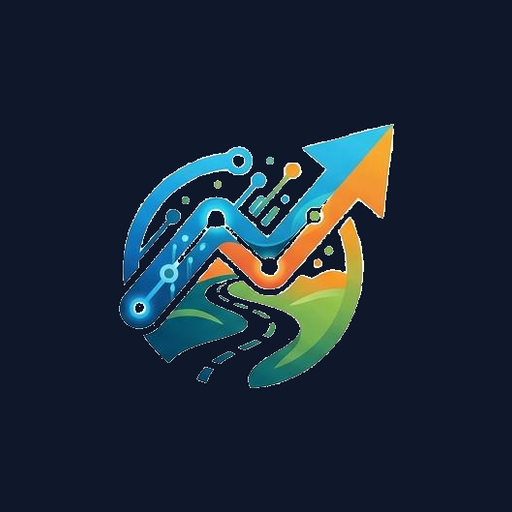
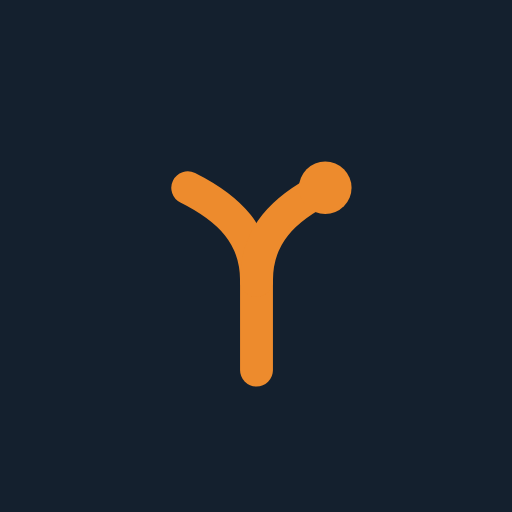
Draw the mark instead of shipping five pictures of it
The old mark was a circuit trace, a gradient arrow and a winding road
stacked on a navy tile. Three motifs, four gradients, no single
silhouette — at 16px in a browser tab it collapsed into a smudge, and
because the artwork carried a baked-in cream plate it could not sit on
anything without help.

That help had accumulated. The mark shipped as five bitmaps: a light pair,
a dark pair and a separate lockup for the report, all of which had to be
kept in step by hand. The stylesheet ran mix-blend-mode: multiply on light
grounds to melt the cream plate into the paper, plus a set of dark-scheme
overrides to stop that same trick sinking the plate into mud on the
footer. Every line of it existed to disguise the fact that the mark was a
rectangle of pixels rather than a shape.

It is a shape now. Njia means "path", and the product exists for one
moment: the fork a learner reaches after KCSE, where both ways look
identical from where they stand. So the mark is that fork with one way
marked — a route rising from where you are, splitting, one branch ending
in a filled point. The other branch stays open and unmarked, because Njia
names a secondary cluster too and never claims the road not taken is
closed.

It is drawn in currentColor, which is the whole point: one definition
takes terracotta on paper, gold on the navy hero, cream on the footer,
and ink on the printed report, with no per-scheme asset and no
compositing tricks. Defined once as a sprite symbol rather than three
[…]

Changed region(s): [[0.2188, 0.2188, 0.7812, 0.7812]]

diff --git a/tests/provenance.test.js b/tests/provenance.test.js
@@ -1491,14 +1491,27 @@ test('the teacher labour market record states both sides of the paradox', () => 
  * requests — and print CSS reveals the block far too late to load it. Every
  * PDF exported shipped with no logo: no indication of where the document came
  * from. */
-test('the report logo is not lazy-loaded out of the PDF', () => {
+test('the report carries a brand mark that cannot fail to load', () => {
+  /* This guard used to require an <img> in the report header that was not
+   * lazy-loaded, because the mark sits in a display:none subtree and a lazy
+   * image there is never fetched — every PDF exported before that fix went
+   * out with no mark at all. The requirement was always "the mark is there
+   * when the sheet prints"; a non-lazy <img> was just one way to get it.
+   * The mark is inline vector now, which cannot fail to load because there
+   * is nothing to fetch, so the guard checks the requirement and still
+   * rejects a return to a lazily-fetched bitmap. */
   const discover = fs.readFileSync(path.join(root, 'js/discover.js'), 'utf8');
-  const header = discover.match(/<div class="report-header">[\s\S]*?<\/div>/);
-  assert.ok(header, 'the report must have a header block');
-  const img = header[0].match(/<img[^>]*>/);
-  assert.ok(img, 'the report header must carry the brand mark');
-  assert.ok(!/loading=["']lazy["']/.test(img[0]),
-    'the report logo must not be lazy-loaded — it sits in a display:none subtree and will never be fetched');
+  const start = discover.indexOf('<div class="report-header">');
+  assert.ok(start > -1, 'the report must have a header block');
+  const header = discover.slice(start, discover.indexOf('report-header-meta', start));
+  const inlineMark = /<use\s+href="#i-njia"/.test(header);
+  const img = header.match(/<img[^>]*>/);
+  assert.ok(inlineMark || img,
+    'the report header carries no brand mark — it is the one element telling a bursary office where the sheet came from');
+  if (img) {
+    assert.ok(!/loading=["']lazy["']/.test(img[0]),
+      'the report logo must not be lazy-loaded — it sits in a display:none subtree and will never be fetched');
+  }
 
   // The print block must stay display:none on screen and visible in print, or
   // the report renders twice on the page.
@@ -1811,4 +1824,39 @@ test('the catalogue notice does not point at a badge that no longer exists', () 
     'the catalogue notice renders an est. badge again, but nothing marks figures est. any more');
   assert.ok(!/^\.est-mark\s*\{/m.test(css),
     'the .est-mark style is back without anything rendering it');
+});
+
+test('the brand mark is the same drawing in both places it is defined', () => {
+  /* The mark lives twice: as icons/logo-mark.svg, which the PWA icon
+   * generator and any external use read, and as the #i-njia sprite symbol,
+   * which every in-app surface renders. Two copies of a drawing drift —
+   * that is exactly how the old mark ended up as four PNGs that had to be
+   * kept in step by hand. Compare the geometry, not the formatting. */
+  const geometry = (src) => {
+    const paths = [...src.matchAll(/<path\s+d="([^"]+)"/g)].map((m) => m[1].replace(/\s+/g, ' ').trim());
+    const circles = [...src.matchAll(/<circle\s+cx="([^"]+)"\s+cy="([^"]+)"\s+r="([^"]+)"/g)]
+      .map((m) => m.slice(1, 4).join(','));
+    return { paths, circles };
+  };
+  const file = fs.readFileSync(path.join(root, 'icons', 'logo-mark.svg'), 'utf8');
+  const html = fs.readFileSync(path.join(root, 'index.html'), 'utf8');
+  const symbol = html.slice(html.indexOf('<symbol id="i-njia"'));
+  const inline = symbol.slice(0, symbol.indexOf('</symbol>'));
+
+  const a = geometry(file), b = geometry(inline);
+  assert.ok(a.paths.length >= 3, 'logo-mark.svg no longer contains the mark');
+  assert.deepEqual(b.paths, a.paths, 'the #i-njia symbol and icons/logo-mark.svg draw different paths');
+  assert.deepEqual(b.circles, a.circles, 'the marked terminal differs between the two definitions');
+});
+
+test('nothing renders the retired logo bitmaps', () => {
+  /* The mark is vector now. The old PNG pair-per-scheme existed only
+   * because a raster mark cannot take the page's ink, and leaving a
+   * reference behind would quietly reintroduce the asset it replaced. */
+  for (const file of ['index.html', 'js/app.js', 'js/discover.js', 'css/styles.css']) {
+    const src = fs.readFileSync(path.join(root, file), 'utf8');
+    const code = src.replace(/\/\*[\s\S]*?\*\//g, '').replace(/<!--[\s\S]*?-->/g, '');
+    assert.ok(!/logo-mark-(light-)?\d+\.png|logo-lockup-report\.png/.test(code),
+      `${file} still references a retired logo bitmap`);
+  }
 });

diff --git a/css/styles.css b/css/styles.css
@@ -381,25 +381,21 @@ svg.icon {
   font-size: 0.95rem;
   color: var(--text-secondary);
 }
+/* The mark is drawn in currentColor, so it needs no per-scheme asset and
+ * no compositing tricks. What stood here was a mix-blend-mode: multiply on
+ * light grounds, to blend the cream plate baked into the old PNG artwork
+ * into the paper, plus a set of dark-scheme overrides to stop that same
+ * trick sinking the plate into mud on the footer. All of it existed to
+ * hide the fact that the mark was a rectangle of pixels rather than a
+ * shape. It is a shape now. */
 .logo-mark {
   width: 28px; height: 28px;
-  object-fit: contain;
   flex-shrink: 0;
   display: block;
+  color: var(--primary);
 }
-/* The mark assets carry a cream (#f5f2ea) plate. multiply blends that
- * plate into any light surface, so the artwork sits directly on the
- * paper with no visible square. Scoped to light contexts only — on the
- * dark footer the same trick would sink the art into black. */
-.app-header .logo-mark { mix-blend-mode: multiply; }
-/* On dark grounds multiply sinks the cream plate into mud — show the
- * plate as a small rounded badge instead. */
-:root[data-theme="dark"] .app-header .logo-mark,
-:root[data-theme="dark"] .landing-hero-logo,
-:root[data-theme="dark"] .logo-mark {
-  mix-blend-mode: normal;
-  border-radius: 6px;
-}
+.app-header .logo-mark { color: var(--primary); }
+.landing-hero-logo { color: var(--accent); }
 .header-btn {
   width: 48px; height: 48px;
   display: flex; align-items: center; justify-content: center;
@@ -2069,6 +2065,19 @@ h3 > .icon { color: var(--primary); margin-right: 0.2rem; }
   margin-bottom: 1.2rem;
   padding-bottom: 1rem;
   border-bottom: 2px solid #e6e2d7;
+}
+/* Fixed colours, not tokens: the report is printed, and a sheet handed to a
+ * bursary office should not change ink because the reader had dark mode on. */
+.report-lockup { display: flex; align-items: center; gap: 0.6rem; }
+.report-lockup svg { color: #b4552d; flex-shrink: 0; }
+.report-lockup-text { display: flex; flex-direction: column; line-height: 1.15; }
+.report-lockup-text strong {
+  font-family: var(--serif); font-size: 1.35rem; font-weight: 700;
+  color: #1f1e1d; letter-spacing: -0.02em;
+}
+.report-lockup-text span {
+  font-size: 0.6rem; text-transform: uppercase; letter-spacing: 0.09em;
+  color: #52504a;
 }
 .report-header img { width: 180px; height: auto; flex-shrink: 0; }
 .report-header-meta { text-align: right; }

diff --git a/index.html b/index.html
@@ -71,6 +71,12 @@
        gets these; emoji stays reserved for content voice only. -->
   <svg xmlns="http://www.w3.org/2000/svg" style="display:none" aria-hidden="true">
     <defs>
+      <!-- The brand mark. A symbol rather than an <img> because the mark is
+           drawn in currentColor: an SVG loaded through <img> cannot inherit
+           the page's ink, which is why the old mark shipped as four PNGs —
+           a light pair and a dark pair — that had to be kept in step by hand.
+           One definition here themes itself everywhere it is used. -->
+      <symbol id="i-njia" viewBox="0 0 48 48" fill="none"><g stroke="currentColor" stroke-width="5.5" stroke-linecap="round"><path d="M24 43V28"/><path d="M24 28C24 20.5 19.5 16 12.5 12.5"/><path d="M24 28C24 20.5 28.5 16 35.5 12.5"/></g><circle cx="35.5" cy="12.5" r="4.4" fill="currentColor"/></symbol>
       <symbol id="i-home" viewBox="0 0 24 24" fill="none" stroke="currentColor" stroke-width="2" stroke-linecap="round" stroke-linejoin="round"><path d="M3 10.5 12 3l9 7.5"/><path d="M5 9.5V21h14V9.5"/><path d="M10 21v-6h4v6"/></symbol>
       <symbol id="i-compass" viewBox="0 0 24 24" fill="none" stroke="currentColor" stroke-width="2" stroke-linecap="round" stroke-linejoin="round"><circle cx="12" cy="12" r="9"/><path d="m15.6 8.4-2 5.2-5.2 2 2-5.2z"/></symbol>
       <symbol id="i-pen" viewBox="0 0 24 24" fill="none" stroke="currentColor" stroke-width="2" stroke-linecap="round" stroke-linejoin="round"><path d="M17 3a2.85 2.85 0 1 1 4 4L7.5 20.5 2 22l1.5-5.5Z"/><path d="m15 5 4 4"/></symbol>
@@ -117,7 +123,7 @@
     <header class="app-header">
       <button type="button" class="header-btn nav-back" aria-label="Back to home" onclick="navigateTo('home')"><svg class="icon" aria-hidden="true"><use href="#i-arrow-left"/></svg></button>
       <div class="logo">
-        <img class="logo-mark" src="./icons/logo-mark-light-128.png" alt="" aria-hidden="true" width="28" height="28" decoding="async">
+        <svg class="logo-mark" viewBox="0 0 48 48" width="28" height="28" aria-hidden="true"><use href="#i-njia"/></svg>
         <span class="logo-lockup">
           <span class="logo-word">Njia</span>
           <span class="logo-descriptor">Career Pathways · Kenya</span>

diff --git a/js/app.js b/js/app.js
@@ -569,7 +569,7 @@ function renderHomePage() {
 
       <section class="landing-hero">
         <div class="landing-hero-main">
-          <img class="landing-hero-logo" src="./icons/logo-mark-light-256.png" alt="Njia" width="64" height="64" decoding="async">
+          <svg class="landing-hero-logo" viewBox="0 0 48 48" width="64" height="64" role="img" aria-label="Njia"><use href="#i-njia"/></svg>
           <p class="landing-hero-eyebrow">Career pathway intelligence · Kenya</p>
           <span class="status-pill mb-2"><span class="dot" aria-hidden="true"></span>Research-backed method · Real Kenyan data · Always free</span>
           <h1 class="landing-h1">Career clarity shouldn't cost <span class="hl-gold">what consultants charge.</span></h1>
@@ -719,7 +719,7 @@ function renderHomePage() {
       <footer class="landing-footer">
         <div class="landing-footer-grid">
           <div class="landing-footer-brand">
-            <div class="flex items-center gap-1"><img class="logo-mark" src="./icons/logo-mark-128.png" alt="" aria-hidden="true" width="28" height="28" decoding="async" loading="lazy"><strong style="color:#f8fafc">Njia</strong></div>
+            <div class="flex items-center gap-1"><svg class="logo-mark" viewBox="0 0 48 48" width="28" height="28" aria-hidden="true" style="color:#f8fafc"><use href="#i-njia"/></svg><strong style="color:#f8fafc">Njia</strong></div>
             <p>Data-driven career pathway guidance for Kenyan youth, built on research-backed career psychology and life-design methods.</p>
           </div>
           <div class="landing-footer-col">

diff --git a/js/discover.js b/js/discover.js
@@ -696,7 +696,19 @@ function renderShareableReportHTML() {
               load. Every PDF exported before this shipped with no brand mark
               at all, which is the one element telling a parent, school or
               bursary office where the document came from. */''}
-        <img src="./icons/logo-lockup-report.png" alt="Njia" width="180" height="85" decoding="sync">
+        <!-- Drawn rather than fetched. The lockup used to be a 180x85 PNG,
+             and getting it to appear in the exported PDF at all took a fight
+             (see the note above about lazy loading). Vector markup in the
+             same document cannot fail to load, has nothing to decode before
+             print, and prints at the printer's resolution instead of at 2x
+             screen density. -->
+        <div class="report-lockup">
+          <svg viewBox="0 0 48 48" width="42" height="42" role="img" aria-label="Njia"><use href="#i-njia"/></svg>
+          <span class="report-lockup-text">
+            <strong>Njia</strong>
+            <span>Career Pathways · Kenya</span>
+          </span>
+        </div>
         <div class="report-header-meta">
           <span class="report-eyebrow">Career Pathway Report</span>
           <span class="report-date">${dateStr}</span>

diff --git a/sw.js b/sw.js
@@ -7,13 +7,11 @@
  * data — bump CACHE_VERSION on every deploy that changes cached files.
  */
 
-const CACHE_VERSION = 'njia-v84';
+const CACHE_VERSION = 'njia-v85';
 const ICON_ASSETS = [
   './icons/icon-192x192.png', './icons/icon-512x512.png',
   './icons/icon-maskable-192.png', './icons/icon-maskable-512.png',
-  './icons/logo-mark-128.png', './icons/logo-mark-256.png',
-  './icons/logo-mark-light-128.png', './icons/logo-mark-light-256.png',
-  './icons/logo-lockup-report.png'
+  './icons/logo-mark.svg'
 ];
 const CACHE_ASSETS = [
   './',
